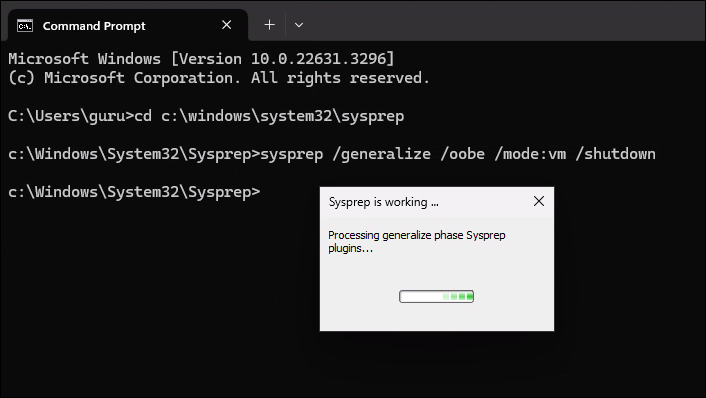
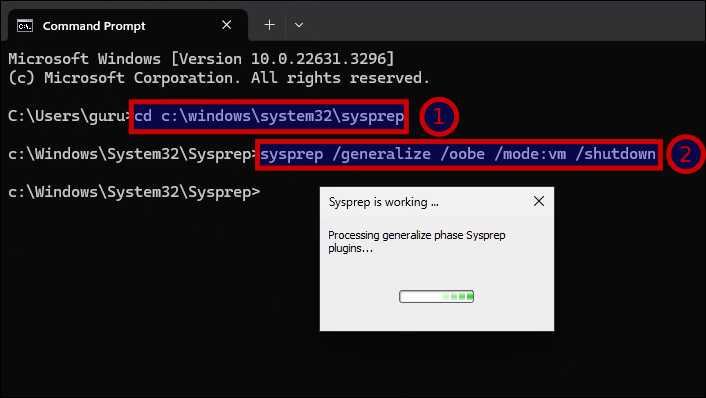
changes

Changed region(s): [[0.1558, 0.2412, 1.0, 0.4523]]

diff --git a/docs/tutorials/windows11-virtualbox/create-sysprep.md b/docs/tutorials/windows11-virtualbox/create-sysprep.md
@@ -5,6 +5,8 @@
     <img src="../commandprompt-dministrator.png"/>
 
 === "Step2"
-    First change the path. Then enter the sysprep command with parameters. A pop-up window appears. Finally, the system shuts down.
+    1. First change the path. 
+    
+    2. Then enter the sysprep command with parameters. A pop-up window appears. Finally, the system shuts down.
 
     <img src="../sysprep-working.png"/>

diff --git a/docs/tutorials/windows-server-2022-virtualbox/index.md b/docs/tutorials/windows-server-2022-virtualbox/index.md
@@ -1,4 +1,4 @@
-# Install a Windows Server 2022 in VirtualBox 6.1.50
+# Install Windows Server 2022 in VirtualBox 6.1.50
 
 There are several reasons why someone might want to install Windows Server 2022 in a virtual machine (VM). Here are a few possible scenarios:
 
